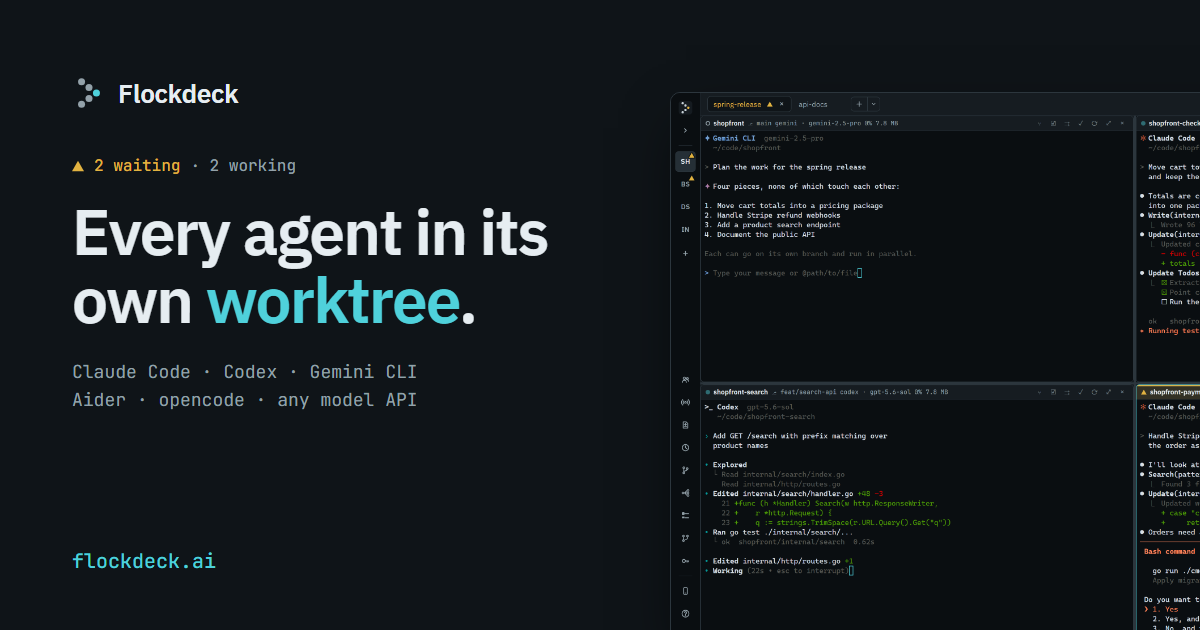
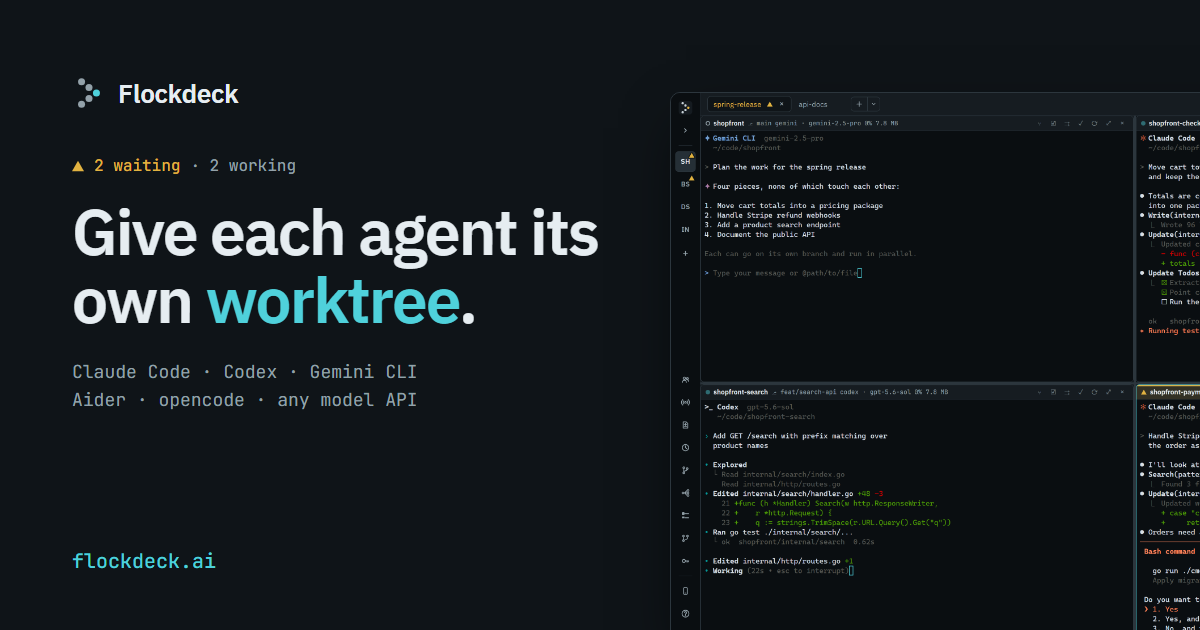
sitegen: make the worktree claims exact; drop stale Settings section list from alt; complete recording retention

Changed region(s): [[0.0617, 0.3317, 0.4933, 0.4222]]

diff --git a/cmd/sitegen/assets/og.html b/cmd/sitegen/assets/og.html
@@ -56,7 +56,7 @@
       Flockdeck
     </div>
     <div class="kicker"><b>▲</b> <span>2 waiting</span> · 2 working</div>
-    <h1>Every agent in its own <em>worktree</em>.</h1>
+    <h1>Give each agent its own <em>worktree</em>.</h1>
     <p class="agents">Claude Code · Codex · Gemini CLI<br>Aider · opencode · any model API</p>
   </div>
   <div class="url">flockdeck.ai</div>

diff --git a/cmd/sitegen/main.go b/cmd/sitegen/main.go
@@ -271,9 +271,9 @@ var pages = []struct {
 	Social                 string
 }{
 	{Path: "", Template: "index.html.tmpl",
-		Title:       "Flockdeck | Coding agents, each in its own git worktree",
-		Description: "Flockdeck runs Claude Code, Codex, Gemini or your own model side by side, each in its own git worktree so parallel agents do not overwrite each other's files, on your desk or on hardware you own, and reaches your phone with no port opened. Free, with its source available, for Windows, macOS and Linux.",
-		Social:      "Run several coding agents in one repo, each in its own git worktree, and reach them from your phone."},
+		Title:       "Flockdeck | Coding agents, a git worktree for each",
+		Description: "Flockdeck runs Claude Code, Codex, Gemini or your own model side by side, with a git worktree for each one step away so parallel agents need not overwrite each other's files, on your desk or on hardware you own, and reaches your phone with no port opened. Free, with its source available, for Windows, macOS and Linux.",
+		Social:      "Run several coding agents in one repo, a git worktree for each, and reach them from your phone."},
 	{Path: "trust.html", Template: "doc.html.tmpl", Source: "trust.md",
 		Title:       "Trust & privacy | Flockdeck",
 		Description: "What Flockdeck collects (almost nothing, structurally, not as a paid mode), what isn't end-to-end encrypted yet, and how that compares to the rest of the market.",

diff --git a/cmd/sitegen/assets/privacy.md b/cmd/sitegen/assets/privacy.md
@@ -65,7 +65,7 @@ The same folder also holds:
   built from the conversation Claude Code stored on your computer, with secrets
   removed on a best-effort basis, so it can still contain some. Recording is
   off until you turn it on and confirm. Recordings older than 30 days are
-  deleted as new ones are made; exports are kept until you delete them. Flockdeck
+  deleted as new ones are made, as are the oldest beyond 100 files or 256 MiB; exports are kept until you delete them. Flockdeck
   sends them nowhere and writes none into a project.
 
 If the app fails to start, it writes
